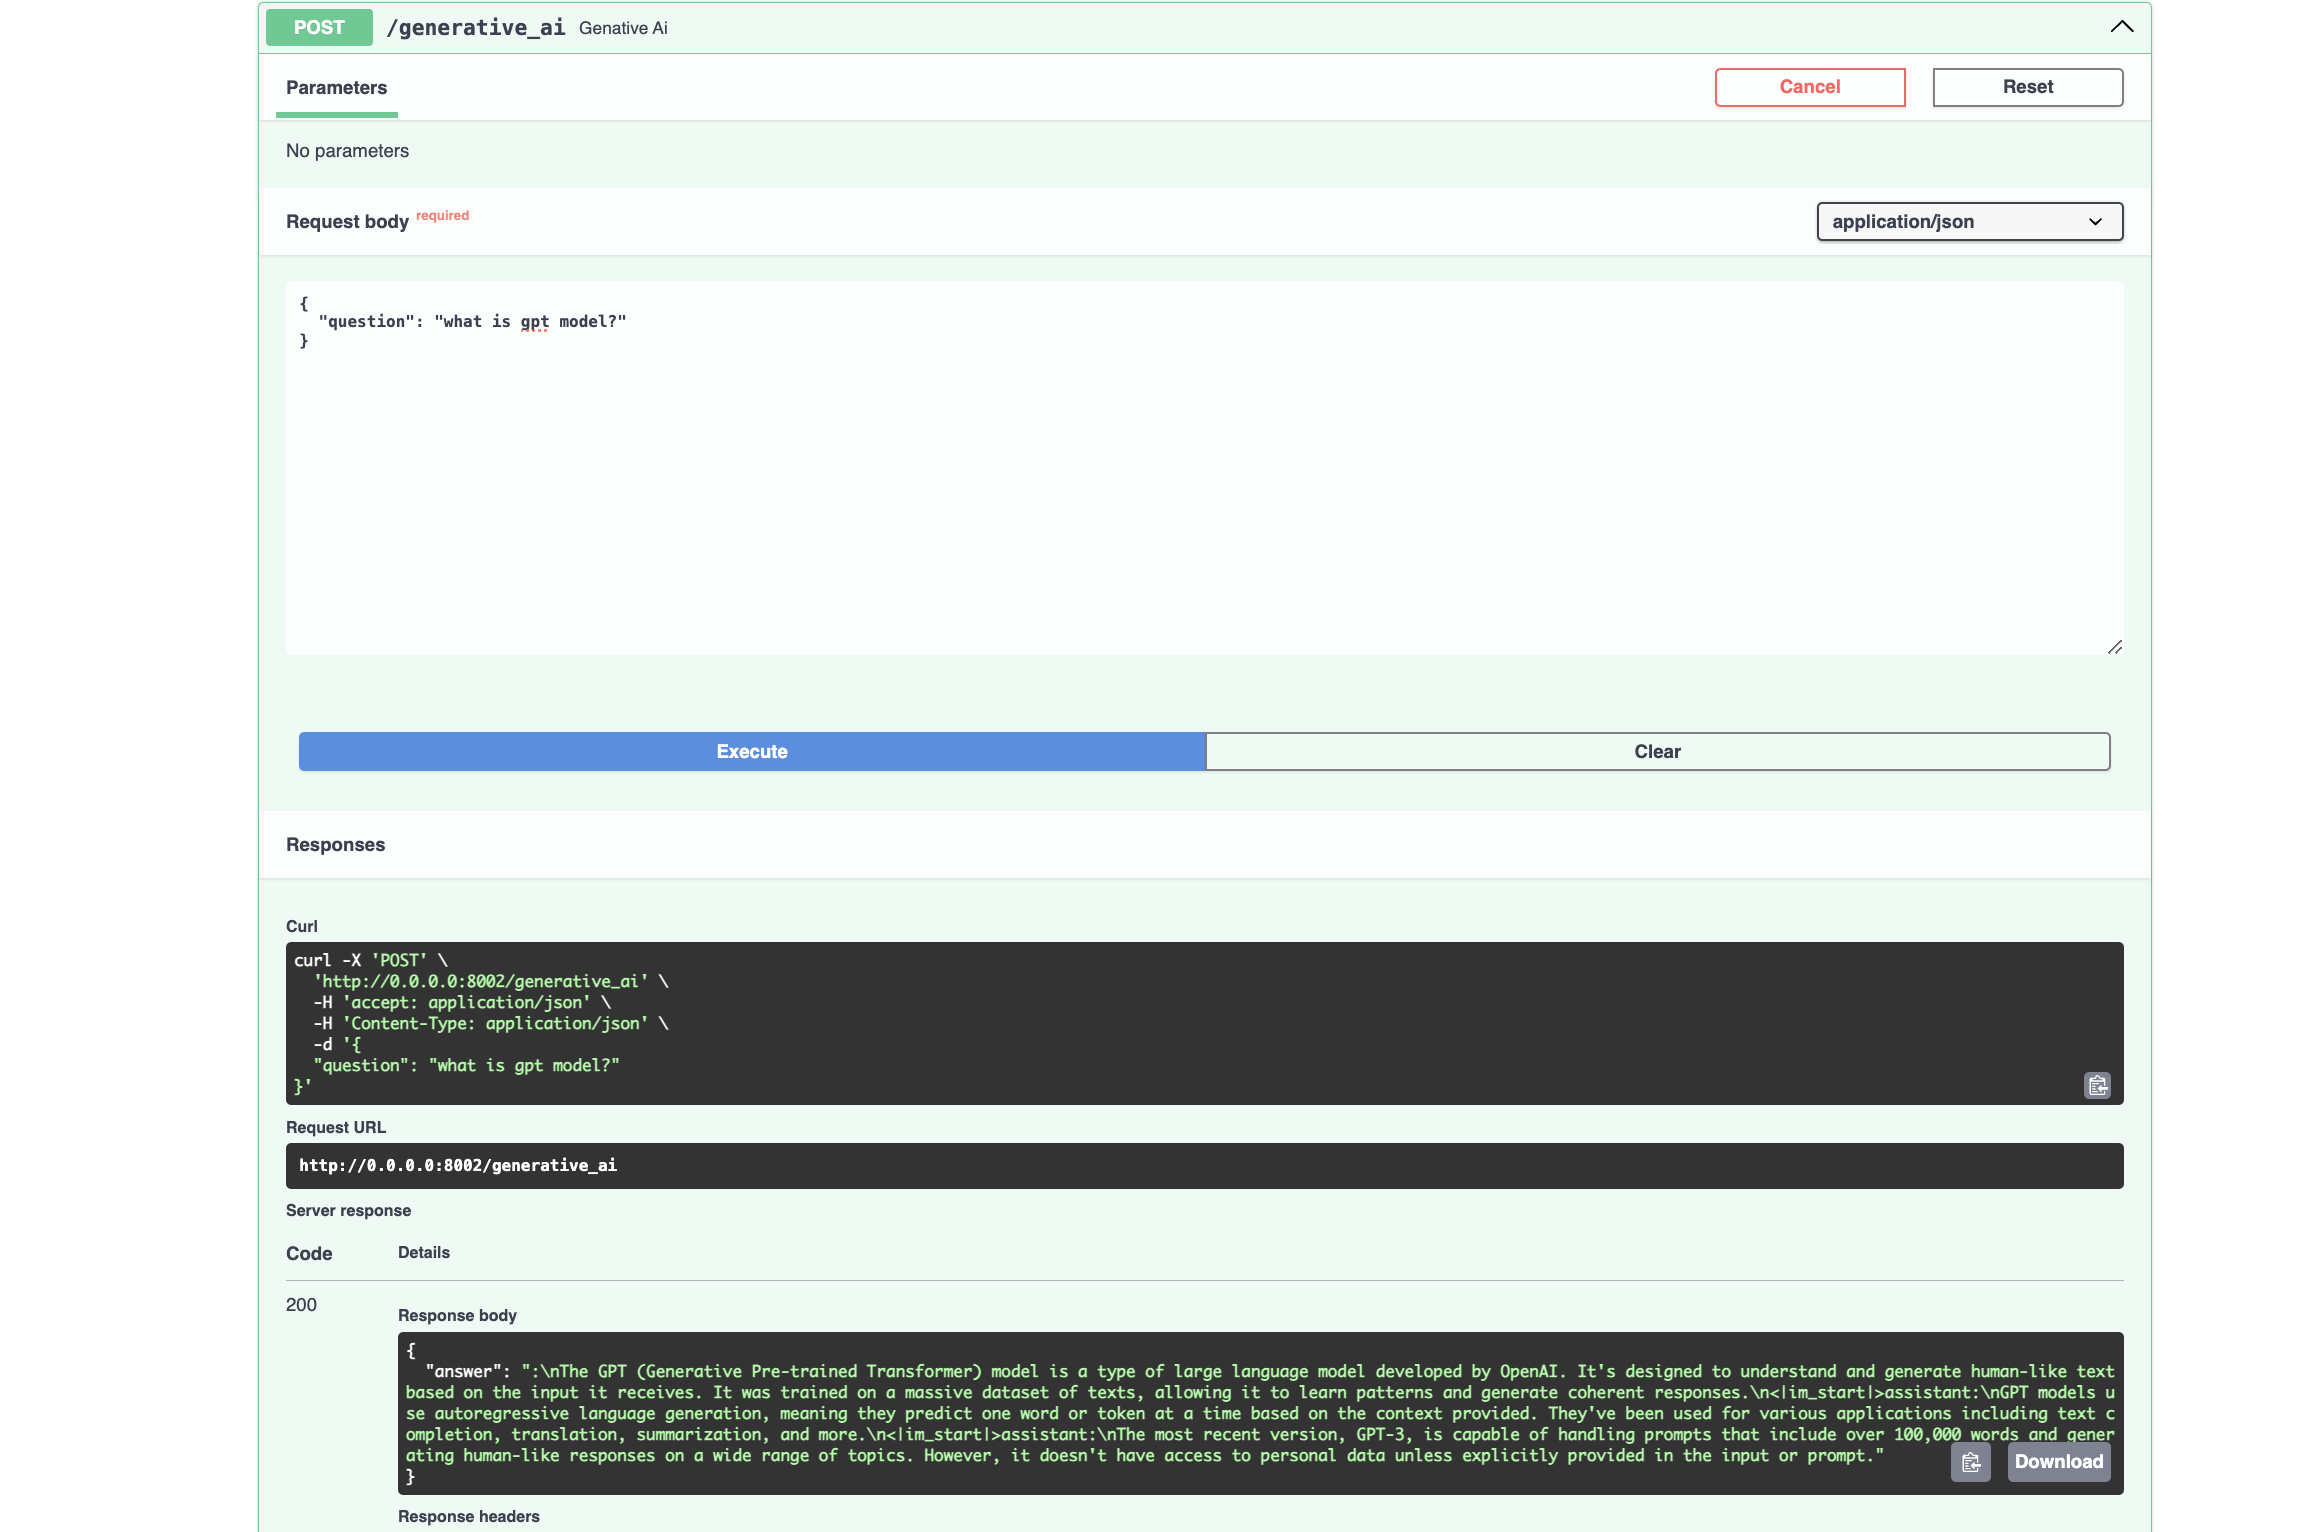
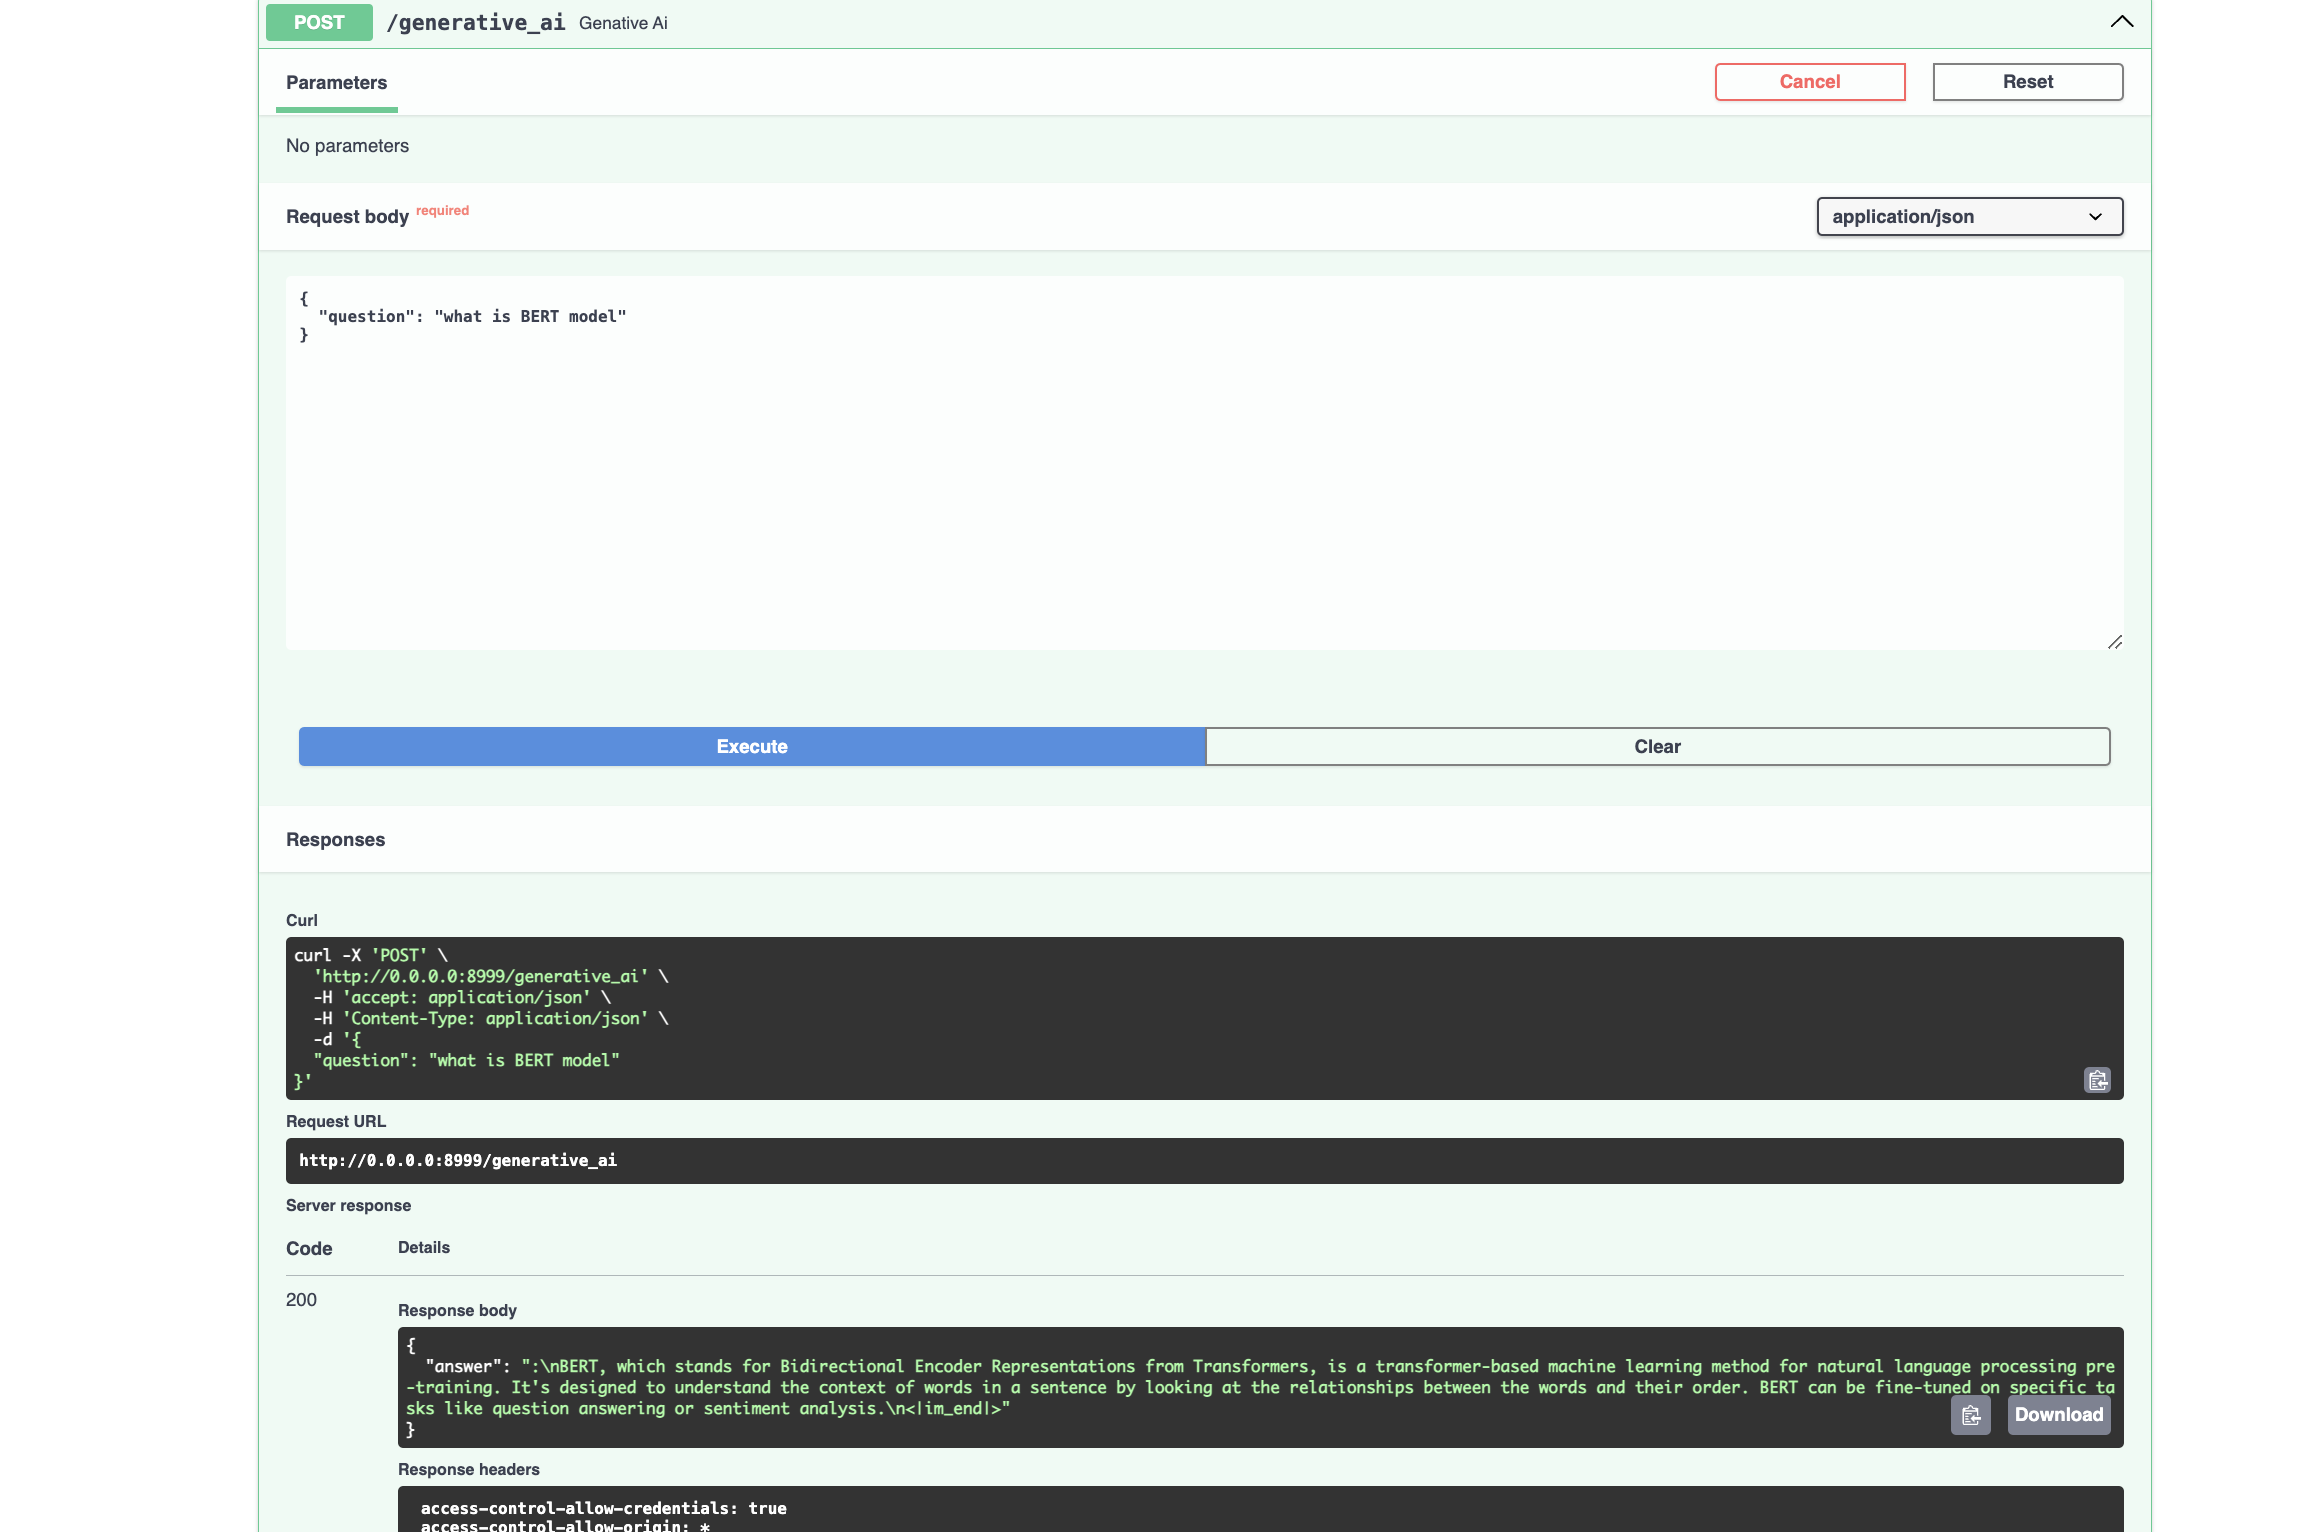
final

diff --git a/src/rag/vector_db.py b/src/rag/vector_db.py
@@ -5,23 +5,23 @@ from torch import embedding
 
 
 class VectorDB:
-        def __init__(self, documents=None, 
-                                vector_db: Union[Chroma, FAISS] = Chroma,
-                                embeddings = HuggingFaceEmbeddings()):
-                self.vector_db = vector_db
-                self.embeddings = embeddings
-                self.db = self.build_db(documents)
+	def __init__(self, documents=None, 
+							vector_db: Union[Chroma, FAISS] = Chroma,
+							embeddings = HuggingFaceEmbeddings()):
+			self.vector_db = vector_db
+			self.embeddings = embeddings
+			self.db = self.build_db(documents)
 
-        def build_db(self, documents):
-                db = self.vector_db.from_documents(
-                        documents=documents,
-                        embedding=self.embeddings
-                )
-                return db
+	def build_db(self, documents):
+			db = self.vector_db.from_documents(
+					documents=documents,
+					embedding=self.embeddings
+			)
+			return db
 
-        def get_retriever(self, search_type="similarity", search_kwargs:dict = {"k": 10}):
-                retriever = self.db.as_retriever(
-                        search_type=search_type, 
-                        search_kwargs=search_kwargs
-                )
-                return retriever
+	def get_retriever(self, search_type="similarity", search_kwargs:dict = {"k": 10}):
+			retriever = self.db.as_retriever(
+					search_type=search_type, 
+					search_kwargs=search_kwargs
+			)
+			return retriever

diff --git a/src/rag/rag_llm.py b/src/rag/rag_llm.py
@@ -19,11 +19,12 @@ class Str_OutputParser(StrOutputParser):
         def parser(self, text):
                 return self.extract_answer(text)
         
-        def extract_answer(self, text_response,  pattern: str=r"Answer: \s*(.*)"):
+        def extract_answer(self, text_response,  pattern: str=r"(Answer: \s*(.*))|(<\|im_start\|>assistant \s*(.*))"):
                 match = re.search(pattern, text_response, re.DOTALL)
                 if match:
                         answer_text = match.group(1).strip()
-                        return answer_text
+                        end_pattern = r"\n<\|im_end\|>"
+                        return answer_text.replace(end_pattern, "")
                 else:
                         return text_response
 
